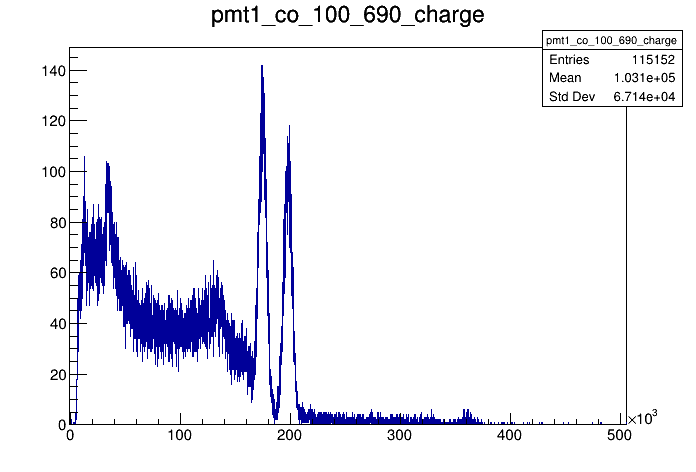
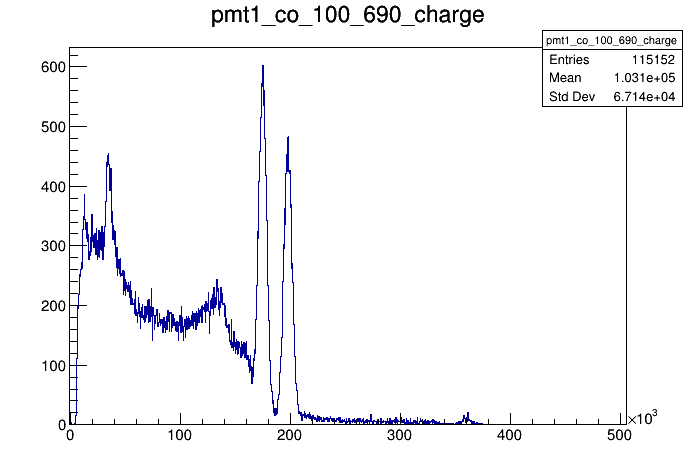
best histo and gaus fit

diff --git a/fit_gaus.cpp b/fit_gaus.cpp
@@ -1,0 +1,44 @@
+#include <list>
+#include <string>
+
+
+#include <TFile.h>
+
+
+void fit_gaus (){
+    TFile *f = new TFile("histograms.root");
+
+    std::map<std::string, vector<float>> samples = {
+    {"pmt1_co_100_690", {165000, 185000, 185000, 210000}}/*,
+    {"pmt2_co_100_851", 0.077 / 1499064.0 * scaleFactorZZTo4l * integratedLuminosity},
+    {"pmt1_na_100_690", 0.077 / 1499093.0 * scaleFactorZZTo4l * integratedLuminosity},
+    {"pmt2_na_100_851", 0.18 / 1497445.0 * scaleFactorZZTo4l * integratedLuminosity},
+    {"pmt1_cs_100_690", 1.0},
+    {"pmt2_cs_100_851", 1.0}*/
+    };
+    TH1F *h_charge = nullptr;
+    TH1F *h_amp = nullptr;
+
+    for (const auto &sample : samples) {
+        const auto name = sample.first;
+        const auto range = sample.second;
+        std::cout << range[0] << std::endl;
+
+        f->GetObject(&(name + "_charge")[0], h_charge);
+        TCanvas *c_charge = new TCanvas(&(name + "_charge")[0], &(name + "_charge")[0]);
+        TF1 *gaus1 = new TF1("gaus1","[0]*exp(-0.5*pow(((x-[1])/[2]),2))",range[0],range[1]);
+        TF1 *gaus2 = new TF1("gaus2","[0]*exp(-0.5*pow(((x-[1])/[2]),2))",range[2],range[3]);
+        //gaus1->SetParNames ("const","Conversion factor");
+        gaus1->SetParameters(00, abs(range[0]+range[1])/2, abs(range[1]-range[0]));
+        gaus2->SetParameters(00, abs(range[2]+range[3])/2, abs(range[3]-range[2]));
+        h_charge->Fit("gaus1","R", "SAME");
+        gaus1->Draw("SAME");
+        h_charge->Fit("gaus2","R", "SAME"); 
+        //gaus2->Draw("SAME");
+        h_charge->Draw("SAME");
+        gStyle->SetOptFit(111111);
+
+        //f->GetObject(&(name + "_amp")[0], h_amp);
+        //h_amp->Draw();
+    }
+}

diff --git a/fit_lin.cpp b/fit_lin.cpp
@@ -1,17 +1,21 @@
 #include <TGraphErrors.h>
 
-void fit(){
+void fit_lin(){
     double x[4]={0.18, 0.66, 1.17, 1.33};
     double y[4]={0.31, 1.01, 1.75, 1.98};
     double y_err[4] = {0.07, 0.03, 0.04, 0.04};
-    TGraphErrors* gr = new TGraphErrors(5,x,y,nullptr,y_err);
+
+    TCanvas *c_fit_lin = new TCanvas("linear fit", "linear fit");
+    TGraphErrors* gr = new TGraphErrors(4,x,y,nullptr,y_err);
+    gStyle->SetStatY(0.9);
+    gStyle->SetStatX(0.5);
     gr->SetMarkerStyle(1);
     gr->Draw("APE");
-    TF1 *   linear  = new TF1("linear","[0]+[1]*x",0, 1.4);
-    linear->SetParameter(0, 2800);
+    TF1 *   linear  = new TF1("linear","[0]+[1]*x", 0, 1.4);
     linear->SetParNames ("x_0 constant","Conversion factor");
     gr->Fit("linear");
     linear->Draw("SAME");
     gStyle->SetOptFit(111);
+    c_fit_lin->SaveAs("linear_fit.png");
 }
 

diff --git a/tools.cpp b/tools.cpp
@@ -70,8 +70,8 @@ vector <TH1F*> make_histo(string path,string name){
         charge_min = (charge[i]<charge_min) ? charge[i] : charge_min;
         amp_min = (amp[i]<amp_min) ? amp[i] : amp_min;        
     }
-    TH1F *histo_charge=  new TH1F(&(name + "_charge")[0],&(name + "_charge")[0], 7000, -1000, static_cast<int>(charge_max));
-    TH1F *histo_amp=  new TH1F(&(name + "_amp")[0],&(name + "_amp")[0], 700, 0, static_cast<int>(amp_max));
+    TH1F *histo_charge=  new TH1F(&(name + "_charge")[0],&(name + "_charge")[0], 1300, -1000, static_cast<int>(charge_max));
+    TH1F *histo_amp=  new TH1F(&(name + "_amp")[0],&(name + "_amp")[0], 1400, 0, static_cast<int>(amp_max));
     for (long unsigned int i=0; i< charge.size(); i++){
         histo_charge->Fill(charge[i]);
         histo_amp->Fill(amp[i]);
